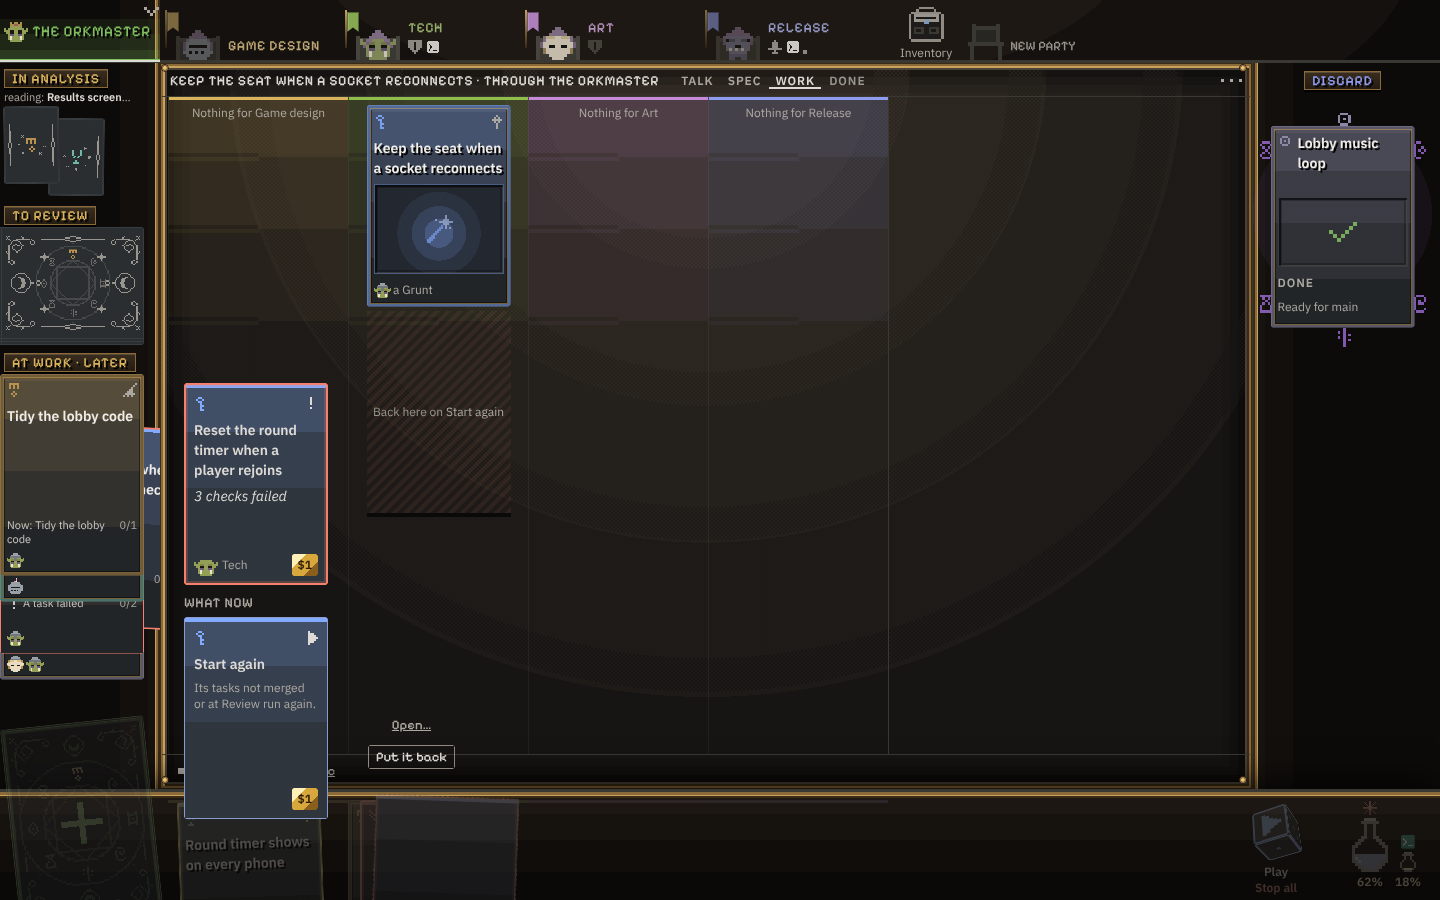
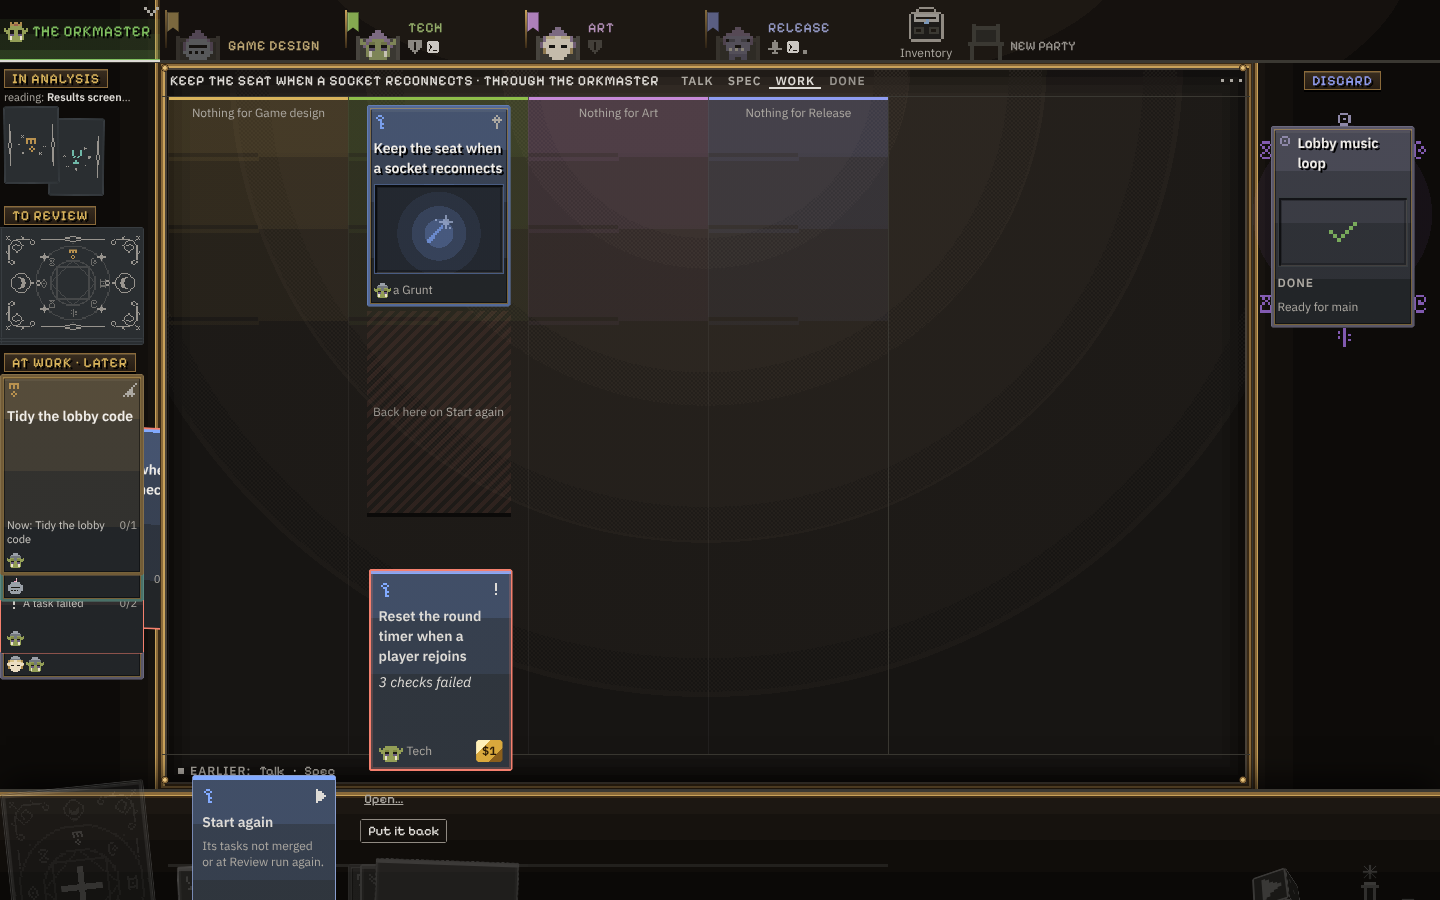
Mockups: answer cards along the hand, the question risen onto the table
The question rises out of its slot onto the table's foot; the answers lie where the hand's
cards lie; the rest of the hand sinks, grey; the Pen's field beside the question.

Claude-Session: https://claude.ai/code/session_01MCU3dpbKvLjgD4LJ6vm5TH

diff --git a/docs/mockups/answer-cards/answer-cards.css b/docs/mockups/answer-cards/answer-cards.css
@@ -4,16 +4,13 @@
 .ac-on .hand-lifted { display: none !important; }
 .ac-on .hand-row { opacity: .28; filter: saturate(.5); }
 
-/* ---- the stage: the question, then the answers, the acts at the end ------------------------------------------- */
-.ac-stage {
-  position: fixed; z-index: 60; display: grid; align-items: end; column-gap: 40px; row-gap: 10px;
-  grid-template-columns: auto auto; grid-template-areas: "q ." "answers acts" "pen pen";
-}
-.ac-qbox { grid-area: q; }
-.ac-answers { grid-area: answers; display: flex; flex-direction: column; gap: 6px; }
-.ac-acts { grid-area: acts; display: flex; flex-direction: column; gap: 8px; align-self: end; padding-bottom: 50px; }
-.ac-row { display: flex; gap: 14px; align-items: end; }
-.ac-label { font: var(--ork-type-heading); letter-spacing: var(--ork-type-heading-track, .06em); text-transform: var(--ork-type-heading-case, none); color: var(--ork-ink-muted); }
+/* ---- the question on the table, the answers as the hand --------------------------------------------------- */
+.ac-on .hand-row { translate: 0 64px; opacity: .3; filter: grayscale(1); transition: translate 200ms, opacity 200ms; }   /* the rest of the hand sinks */
+.ac-qbox, .ac-hand, .ac-pen { position: fixed; z-index: 60; }
+.ac-hand { display: flex; flex-direction: column; gap: 0; }
+.ac-label { position: absolute; top: -22px; left: 0; white-space: nowrap; font: var(--ork-type-heading); letter-spacing: var(--ork-type-heading-track, .06em); text-transform: var(--ork-type-heading-case, none); color: var(--ork-ink-muted); }
+.ac-row { display: flex; gap: 14px; align-items: start; }
+.ac-acts { display: flex; flex-direction: column; gap: 8px; align-items: flex-start; padding: 12px 0 0 10px; }
 
 /* ---- a card: the hand card's anatomy, its corners and three lines ------------------------------------------ */
 .ac-card {
@@ -42,20 +39,19 @@
 .ac-much { flex: none; }
 
 /* the question: raised a little higher than its answers, its signal's ring (orkUI's .asks / .fails, or table-look's) */
-.ac-q { translate: none; }
+.ac-q { translate: none; cursor: default; }
 .ac-q .ac-text { color: var(--ork-ink); font: var(--ork-type-body); font-style: italic; -webkit-line-clamp: 3; line-clamp: 3; }
 
 /* an answer: the leader's pick marked by its head; hovered it rises; the Pen card dashed until it is pressed */
-.ac-row .ac-card:hover { translate: 0 -12px; }
+.ac-row .ac-card:hover { translate: 0 -96px; }
 .ac-card.is-pick { box-shadow: inset 0 0 0 1px var(--ork-ink), inset 0 0 0 3px color-mix(in srgb, var(--ork-ink) 18%, transparent) !important; }
 .ac-card[data-pen] { border-style: dashed; background: color-mix(in srgb, var(--ork-card) 70%, transparent); }
-.ac-card[data-pen].is-on { border-style: solid; translate: 0 -12px; box-shadow: inset 0 0 0 1px var(--ork-ink) !important; }
+.ac-card[data-pen].is-on { border-style: solid; box-shadow: inset 0 0 0 1px var(--ork-ink) !important; }
 
-/* the Pen's field: under the answers, over the hand's rim */
-.ac-pen { grid-area: pen; display: none; gap: 8px; align-items: stretch; }
+/* the Pen's field: on the table beside the risen question, its bottom on the question's */
+.ac-pen { display: none; width: 520px; flex-direction: column; gap: 8px; align-items: flex-end; }
 .ac-stage.is-pen .ac-pen { display: flex; }
-.ac-pen textarea { flex: 1; min-width: 0; resize: none; font: var(--ork-type-body); padding: 6px 8px; background: var(--ork-room); color: var(--ork-ink); border: var(--ork-line) solid var(--ork-ink); }
-.ac-stage.is-pen .ac-acts { padding-bottom: 0; }
+.ac-pen textarea { box-sizing: border-box; width: 100%; resize: none; font: var(--ork-type-body); padding: 6px 8px; background: var(--ork-room); color: var(--ork-ink); border: var(--ork-line) solid var(--ork-ink); }
 
 /* ---- the goal's card in the column: ringed in the lifted card's signal (an outline: a face-down card's back covers its inside) */
 .col-card.ac-about { z-index: 5; outline-offset: -2px; }

diff --git a/docs/mockups/answer-cards/answer-cards.js b/docs/mockups/answer-cards/answer-cards.js
@@ -5,6 +5,7 @@
   const lifted = document.querySelector('.hand-lifted');
   if (!lifted) return 'no lifted card';
   document.querySelector('.ac-stage')?.remove();
+  document.body.classList.remove('ac-on');   // measured with the hand where it rests
   const kind = lifted.dataset.kind, failed = kind === 'failed';
   const elem = [...lifted.classList].find((c) => c.startsWith('el-')) || '';
   const rune = lifted.querySelector('.corner__rune .ork-elem')?.outerHTML || '';
@@ -40,22 +41,25 @@
   const q = card({ t: title, why: text, kindHtml: `<span class="ork-sign ${failed ? 'alert' : 'question'} ${failed ? 'is-danger' : 'is-alert'}" aria-hidden="true"></span>`,
     footWho: `${head}<span>${failed ? 'Tech' : asker}</span>`, cost: failed ? gem : '' }, `ac-q ${failed ? 'fails' : 'asks'}`);
 
+  // the question rises out of its slot onto the table; the answers are the hand; the rest of the hand sinks, grey
+  const rest = document.querySelector(`.hand .hand-card[data-key="${CSS.escape(lifted.dataset.key || '')}"]`)?.getBoundingClientRect();
+  const hand = document.querySelector('.hand')?.getBoundingClientRect();
+  const plus = document.querySelector('.hand .hand-plus')?.getBoundingClientRect();
   const stage = document.createElement('div');
   stage.className = 'ac-stage';
   stage.innerHTML = `<div class="ac-qbox">${q}</div>
-    <div class="ac-answers"><span class="ac-label">${failed ? 'What now' : 'Your answer'}</span><div class="ac-row">${answers.map((a) => card(a, a.pick ? 'is-pick' : '')).join('')}</div></div>
-    <div class="ac-acts"><button type="button" class="ork-btn quiet">Open…</button><button type="button" class="ork-btn">Put it back</button></div>
-    <div class="ac-pen"><textarea class="ork-input" rows="2" placeholder="Your words to ${asker}…">The server counts, but a phone that drops keeps counting and checks back on reconnect.</textarea><button type="button" class="ork-btn primary">Send to ${asker}</button></div>`;
+    <div class="ac-hand"><div class="ac-row">${answers.map((a) => card(a, a.pick ? 'is-pick' : '')).join('')}
+        <div class="ac-acts"><button type="button" class="ork-btn quiet">Open…</button><button type="button" class="ork-btn">Put it back</button></div></div></div>
+    <div class="ac-pen"><textarea class="ork-input" rows="3" placeholder="Your words to ${asker}…">The server counts, but a phone that drops keeps counting and checks back on reconnect.</textarea><button type="button" class="ork-btn primary">Send to ${asker}</button></div>`;
   document.body.append(stage);
   document.body.classList.add('ac-on');
   if (mode === 'pen') { stage.classList.add('is-pen'); stage.querySelector('[data-pen]')?.classList.add('is-on'); }
-
-  // place it: the answers stand on the hand's rim, risen out of it; the question a row above them
-  const hand = document.querySelector('.hand')?.getBoundingClientRect();
-  const pane = document.querySelector('.table-pane')?.getBoundingClientRect();
-  if (hand && pane) {
-    stage.style.left = `${pane.left + 24}px`;
-    stage.style.bottom = `${innerHeight - hand.top - 40}px`;
+  if (hand) {
+    const qx = rest ? rest.left : hand.left + 200, cardTop = rest ? rest.top : hand.top + 10;
+    const qb = stage.querySelector('.ac-qbox'), hr = stage.querySelector('.ac-hand'), pen = stage.querySelector('.ac-pen');
+    qb.style.left = `${qx}px`; qb.style.top = `${hand.top - 202 - 18}px`;
+    hr.style.left = `${plus ? plus.right + 28 : hand.left + 200}px`; hr.style.top = `${cardTop}px`;
+    pen.style.left = `${qx + 144 + 20}px`; pen.style.top = `${hand.top - 18 - 92}px`;
   }
 
   // the context is the table's own: lifting a card already turns the table to its goal; its card in the column is marked

diff --git a/docs/mockups/answer-cards/README.md b/docs/mockups/answer-cards/README.md
@@ -8,13 +8,15 @@ in the product**.
 
 ## What it shows
 
-- **The question stays a hand card** (144 × 202) in its signal's ring, **a row above its answers**: its goal's rune and the
-  kind's sign at the top, the goal's name, the question, who asks at its foot.
-- **Each answer is a card** of the same size, standing on the hand's rim: a way (the compass) with one line of what it
-  leads to, the leader's pick marked by its head (*its pick*); **the leader decides** (its head as the sign: the Silent way,
-  §266.5); **Your own words…** (the Pen), a dashed card until pressed, then a field under the row with *Send to Game design*.
-  A failure has its one way, *Start again*, its cost in the corner.
-- **Open…** and **Put it back** at the row's end; the rest of the hand dimmed while a card is up.
+- **The question rises out of its slot onto the table** (the owner): a hand card (144 × 202) in its signal's ring, standing
+  on the table's foot over the slot it left: its goal's rune and the kind's sign at the top, the goal's name, the question,
+  who asks at its foot. A failure's card lands in its party's lane, by the goal's cards.
+- **The answers are the hand**: cards of the same size where the hand's cards lie, cut by the rim as a hand card is and
+  rising when hovered: a way (the compass) with one line of what it leads to, the leader's pick marked by its head
+  (*its pick*); **the leader decides** (its head as the sign: the Silent way, §266.5); **Your own words…** (the Pen), a
+  dashed card until pressed, then a field on the table beside the question with *Send to Game design*. A failure has its
+  one way, *Start again*, its cost in the corner. **Open…** and **Put it back** at the row's end.
+- **The rest of the hand sinks** 64 px and goes grey behind the answers, the + card, the die and the potions with it.
 - **No new mode for the context** (the owner): lifting a card already turns the table to its goal, so the table is the
   context; **the goal's card in the column is ringed** in the card's signal.
 
@@ -23,8 +25,8 @@ in the product**.
 - **A goal in analysis has an empty table** (*Its tasks are dealt to the leaders when it is agreed*): the context of a
   question asked in Talk is not on it. If the table is the context, the goal's table must show what the asker said and why
   it asks (its view in Talk, the Open question with its ways) before it is agreed.
-- **The cards cover the table's lower left**, the first lanes. With the context on the table, the row may need the hand's
-  width instead (the question over its slot, the answers along the hand).
+- The answers show their name and the start of their line at rest; the whole line only when hovered. A way's line has to
+  say its point in its first words.
 - A way's line (*One clock on the server; …*) is the mockup's own words: today a way has only a button's title. A way card
   needs the leader to write a line per way, short enough for the card (§251: words written to fit).
 - A failure has one way: one card. *Open…* (its log) could be a second card.
